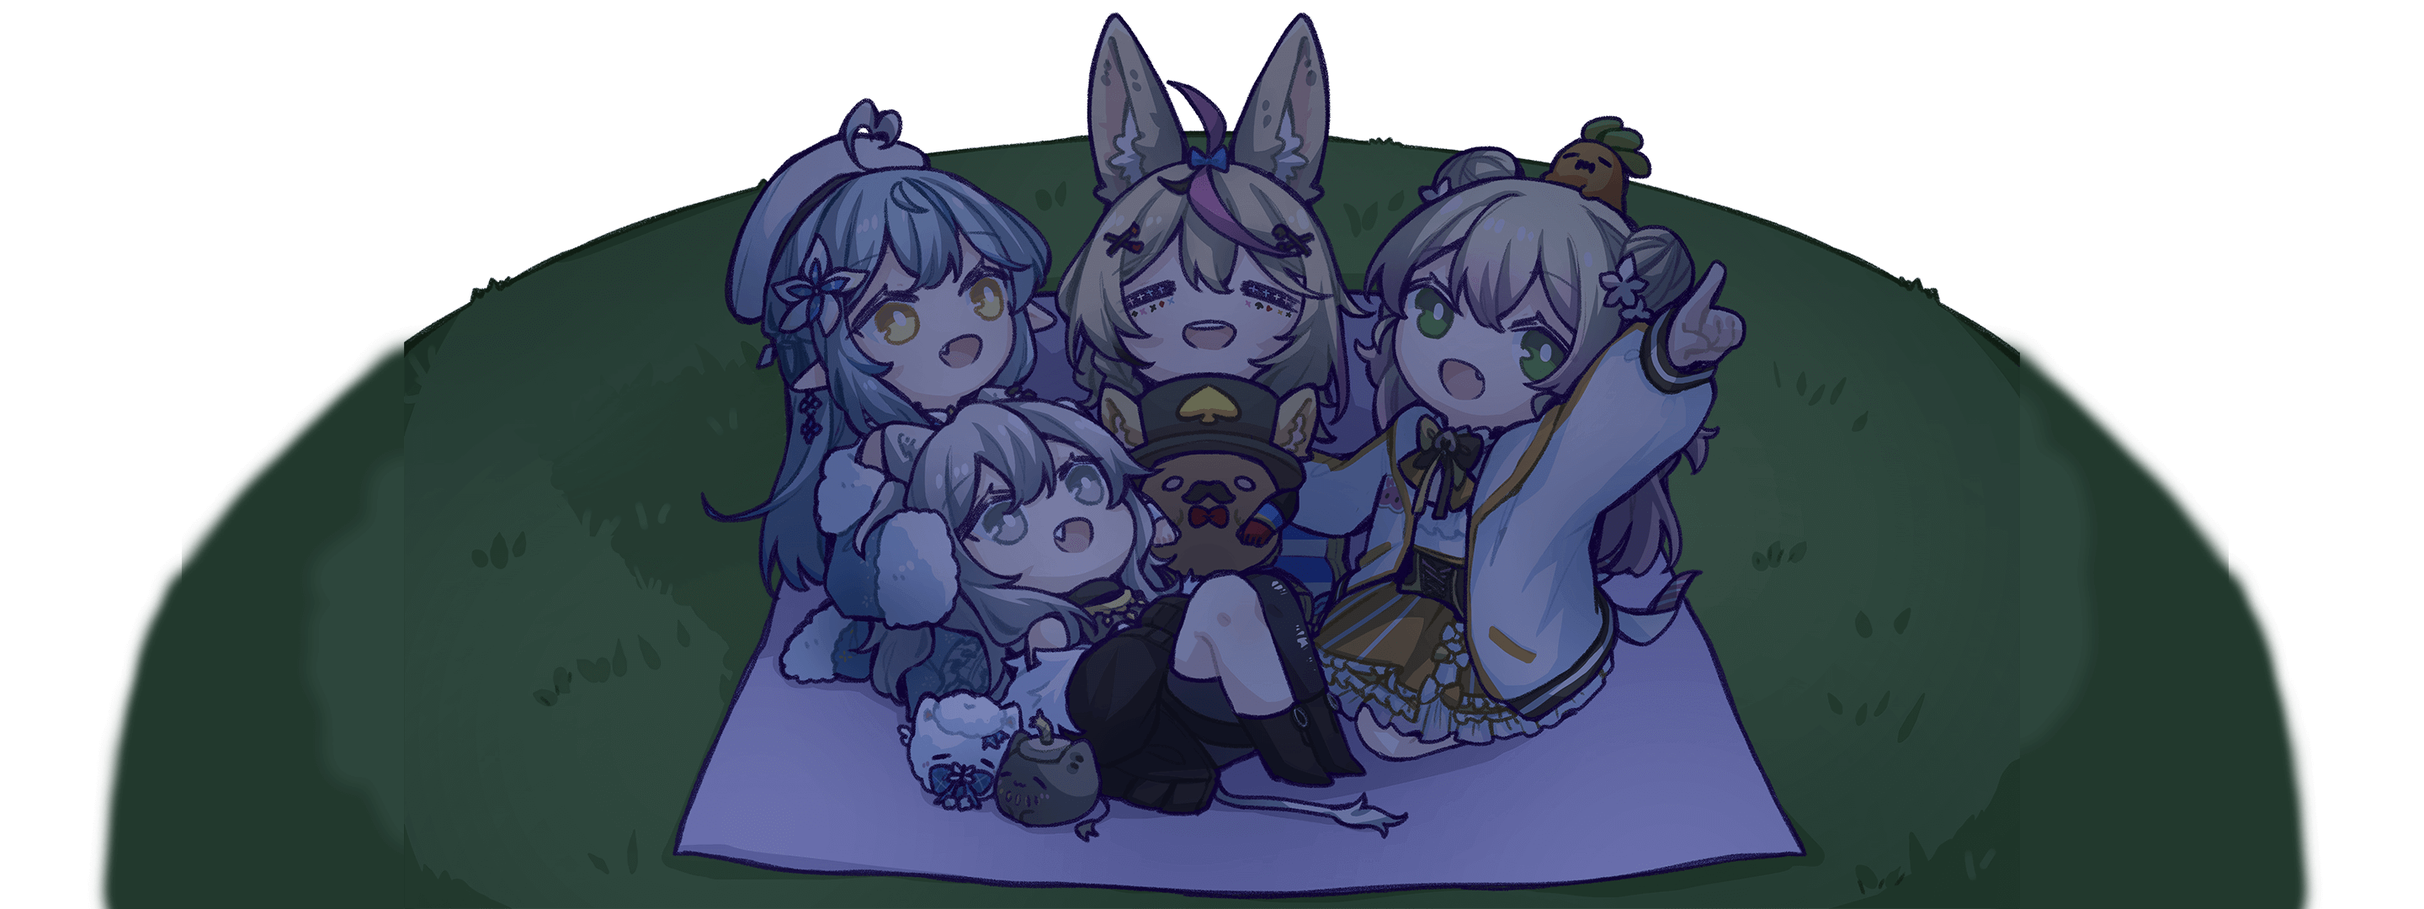
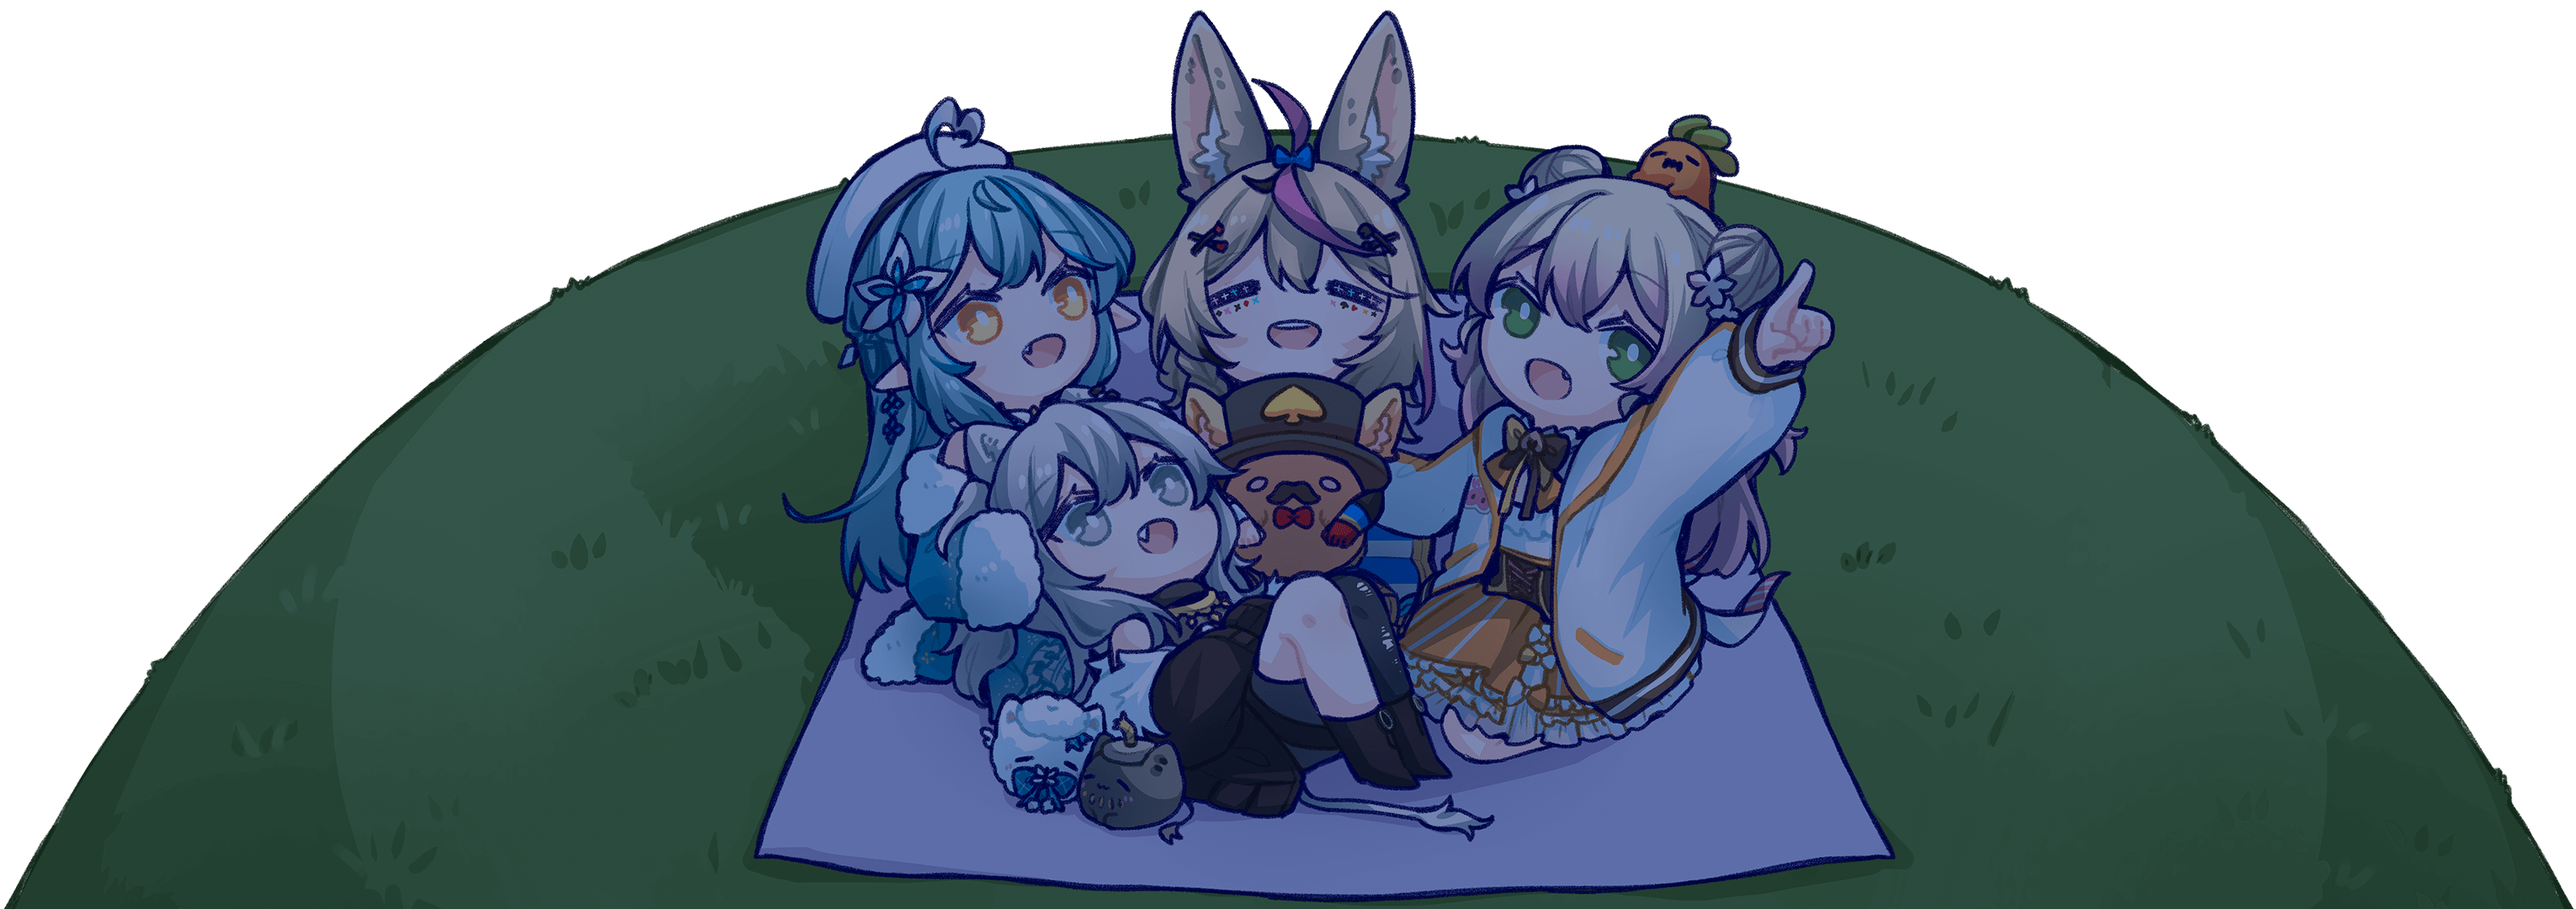
add better nplb pic, tint

diff --git a/src/index.js b/src/index.js
@@ -8,7 +8,8 @@ function init() {
 }
 var root = document.getElementById('cards');
 var sky = document.getElementById('sky');
-var nplb = document.getElementById('nplb');
+var picnic = document.getElementById('picnic');
+var tint = document.getElementById('picnictint');
 
 function getColor(){
     var val = Math.random() * 5;
@@ -55,12 +56,14 @@ function toggleMessagesPopup(bool) {
 function toggleCreditsPopup(bool) {
     document.body.classList.toggle("showCredits",bool);
 }
-
+var tot = 0;
+var fireworksactive = 0;
 var colors = ["red","orange","yellow","green","aqua","blue","purp"];
 // Fireworks stuff
 function generateFirework(e){
+    var colidx = Math.floor(Math.random()*colors.length);
     var newFireworkCont = document.createElement("div");
-    newFireworkCont.className = "firework-"+colors[Math.floor(Math.random()*colors.length)];
+    newFireworkCont.className = "firework-"+colors[colidx];
     newFireworkCont.style.position = "absolute";
     newFireworkCont.style.top = e.y+"px";
     newFireworkCont.style.left = e.x+"px";
@@ -80,8 +83,14 @@ function generateFirework(e){
     newFireworkCont.appendChild(newFirework);
     newFireworkCont.appendChild(newUchiage);
     sky.appendChild(newFireworkCont);
+    tot += colidx;
+    fireworksactive++;
     window.setTimeout(function(){
-        nplb.style.filter = "brightness(2)";
+        //check how much red we have on screen;
+        picnic.style.filter = "brightness(1.6)";
+        tint.style.opacity = 1-(tot/(fireworksactive*6));
+        fireworksactive--;
+        tot -= colidx;
         resetBrightness();
     },1190);
     window.setTimeout(function(){
@@ -90,7 +99,8 @@ function generateFirework(e){
 }
 
 var resetBrightness = debounce(function(){
-    nplb.style.filter = "brightness(1.2)";
+    picnic.style.filter = "brightness(1)";
+    tint.style.opacity = 0;
 },1500);
 function debounce(func, wait, immediate) {
 	var timeout;

diff --git a/src/index.css b/src/index.css
@@ -84,24 +84,33 @@ body.showMessages .FULLSCRN {
     width: calc(100% + 16px);
 }
 
-#nplb {
+#picnic {
     background: url(nplb.png);
-    background-repeat: no-repeat;
-    background-size: contain;
-    bottom: 0;
-    filter: brightness(1.2);
-    height: 100%;
-    left:50%;
-    max-height: 25vh;
-    max-width: 67vh;
-    position: absolute;
-    transform: translateX(-50%);
-    transition: filter 0.2s ease-out;
-    width: 100vh;
     z-index: 1;
 }
 
-#sky > div:not(:first-child) {
+#picnictint {
+    background: url(nplbtint.png);
+    opacity: 0;
+    z-index: 2;
+}
+
+#picnic, #picnictint {
+    background-repeat: no-repeat;
+    background-size: contain;
+    bottom: 0;
+    filter: brightness(1);
+    height: 100%;
+    left:50%;
+    max-height: 25vh;
+    max-width: 71vh;
+    position: absolute;
+    transform: translateX(-50%);
+    transition: all 0.2s ease-out;
+    width: 100vh;
+}
+
+#sky > div {
     transform: translate(-50%, -25%);
 }
 

diff --git a/index.html b/index.html
@@ -49,7 +49,8 @@
         </div>
 
         <div class="FULLSCRN" id="sky">
-            <div id="nplb"></div>
+            <span id="picnic"></span>
+            <span id="picnictint"></span>
             <!--example of one firework unit. you generate this with clicks or loop
             <div class="firework-red">
                 <div class="firework"></div>
